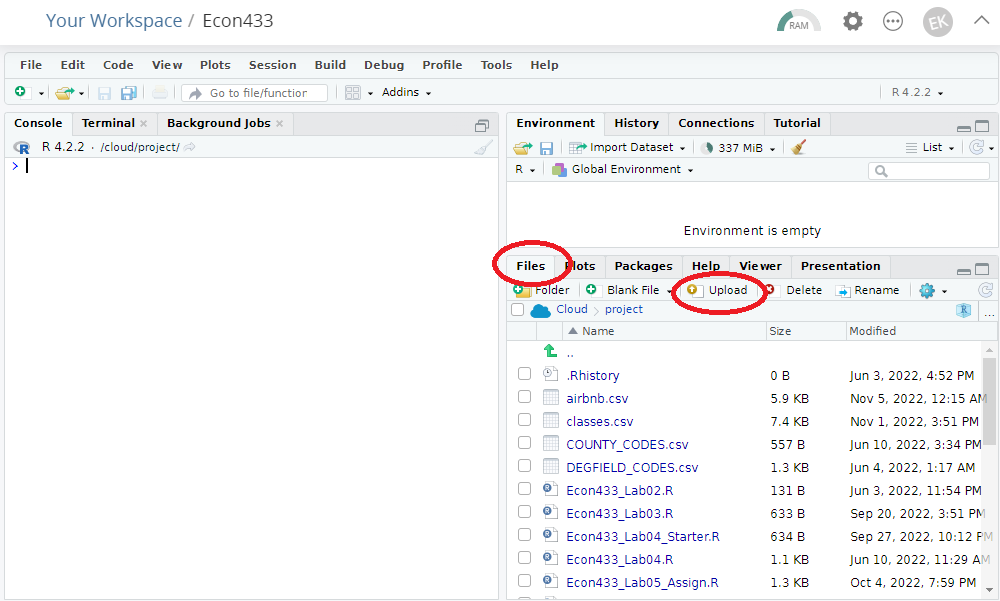
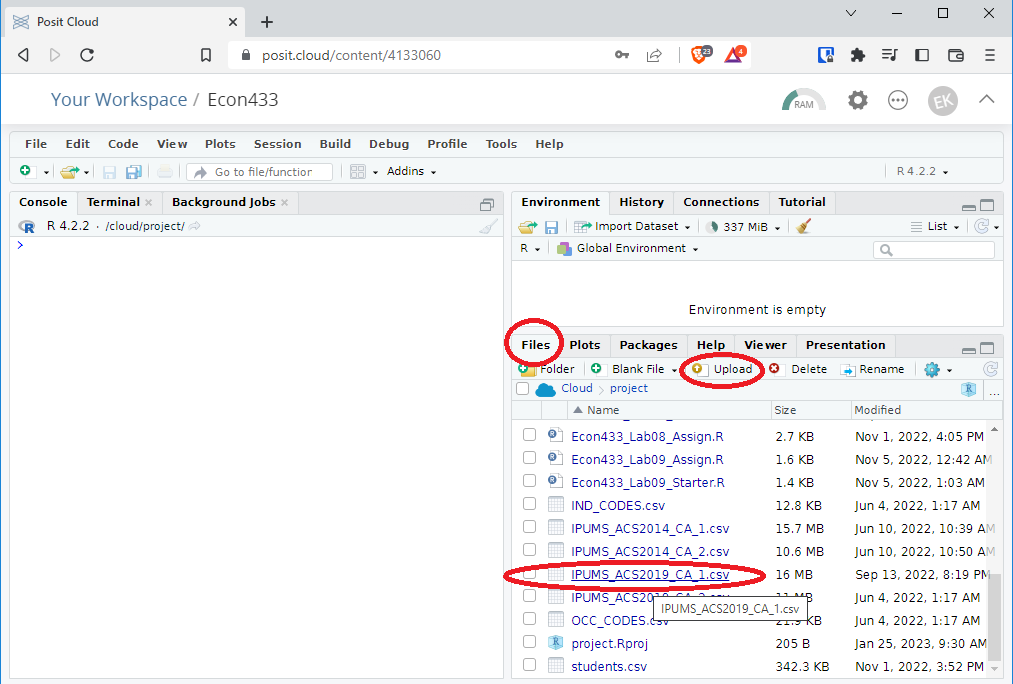
Updated lab 02

Changed region(s): [[0.0, 0.0, 1.0, 1.0]]

diff --git a/labs/lab02/README.md b/labs/lab02/README.md
@@ -27,14 +27,23 @@ In this lab, you will download a data file that I have downloaded in advance fro
 
 3. Name the project whatever you want. Suggestion: "Econ 433".
 
-### Upload the Data
+### Upload the data
 
 4. Download `IPUMS_ACS2019_CA_1.csv` from Canvas. This is an IPUMS data extract containing data from the 2019 ACS for the state of California, similar to what you extracted in Lab 01.
 
-5. In R Studio, click the "Upload" button under the "Files" tab, as shown in the screenshot, and upload `IPUMS_ACS2019_CA_1.csv`. 
+5. In R Studio, click the "Upload" button under the "Files" tab, as shown in the screenshot, and upload `IPUMS_ACS2019_CA_1.csv`. You should now see it in your files list.
 
 ![Upload screenshot](screenshot1.png)
 
+### Playing around with R
 
+Now you have the data inside your R Studio Cloud account and you can begin exploring!
 
+6. First, we have to load the data into the current session's work environment. Do so by typing `df <- read.csv("IPUMS_ACS2019_CA_1.csv")` into the console and hitting enter. 
+
+    This loads the CSV file into your session's work environment as a **data frame**. A data frame is a type of object in R that can be referenced by name and manipulated. A data frame is essentially a table with rows and columns containing data. Think of a data frame like an Excel worksheet. By typing `df <- read.csv("IPUMS_ACS2019_CA_1.csv")`, you are telling R to read the file `IPUMS_ACS2019_CA_1.csv` and store the data in a data frame that you've decided to name `df`. 
+    
+    The choice of the name `df` is arbitrary. If you had typed `my_data <- read.csv("IPUMS_ACS2019_CA_1.csv")` instead, you would have loaded the data into a data frame named `my_data`. Think of the name of the data frame like the name of an Excel worksheet. It doesn't really matter what you call it, but you can use the name to reference data from it.
+    
+7. 
 
